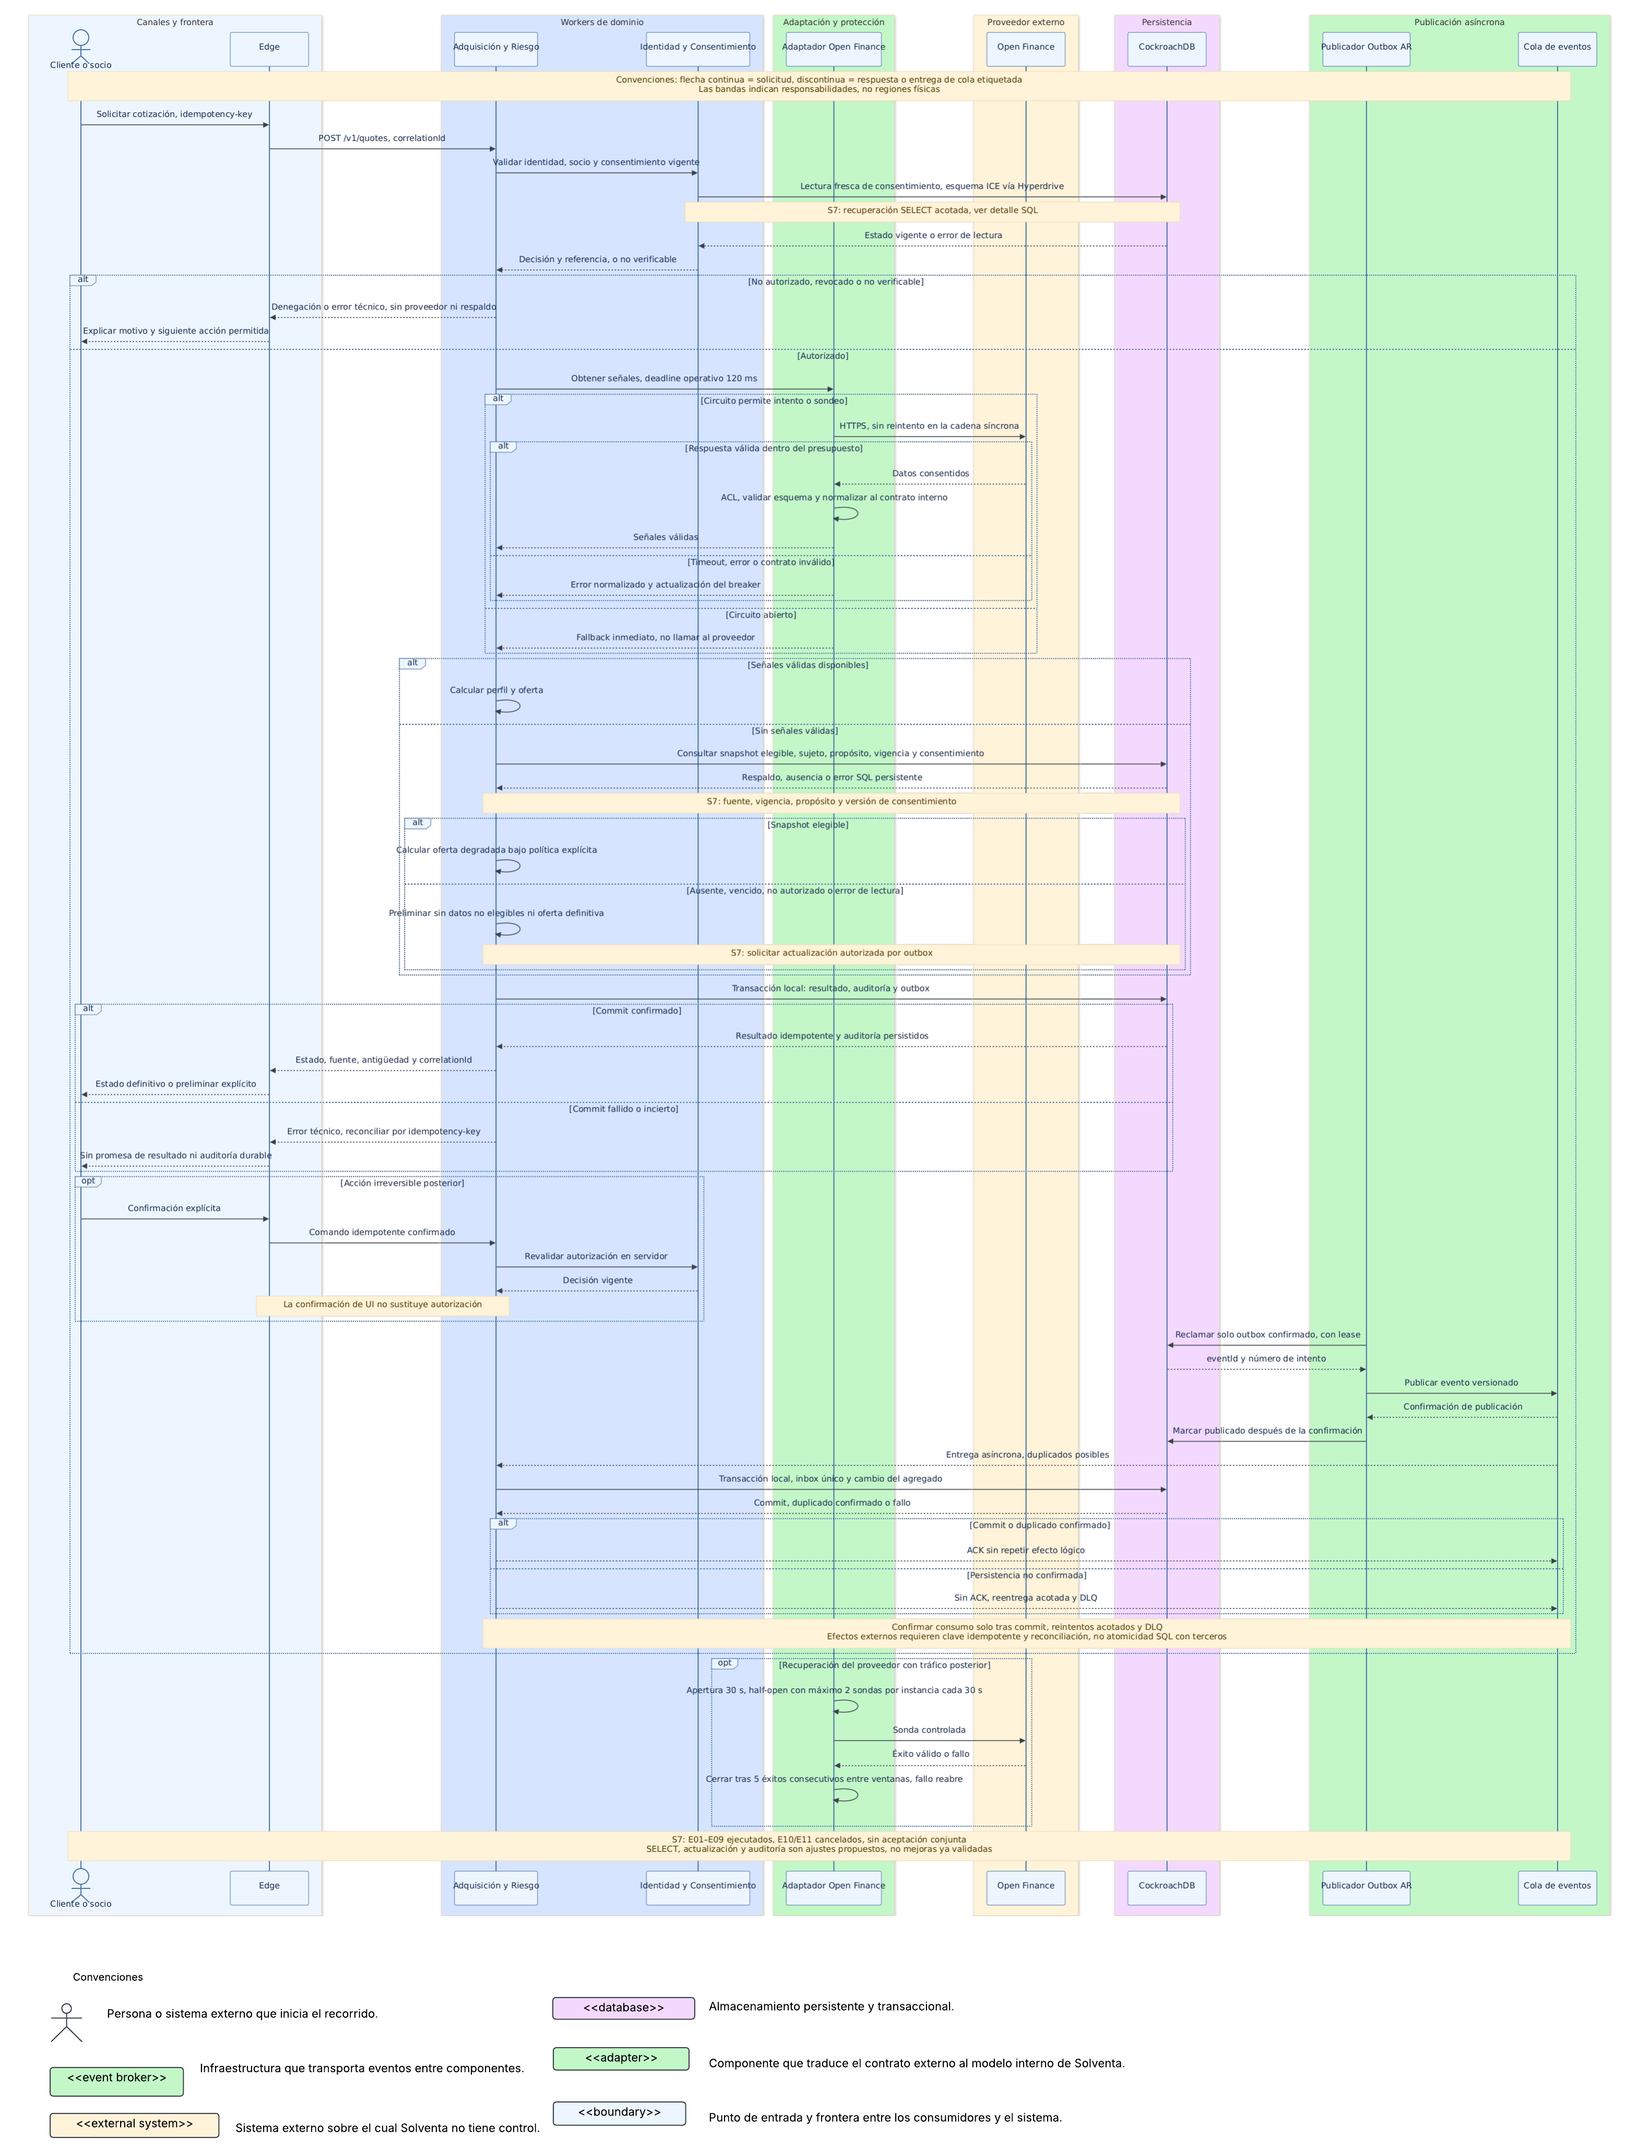
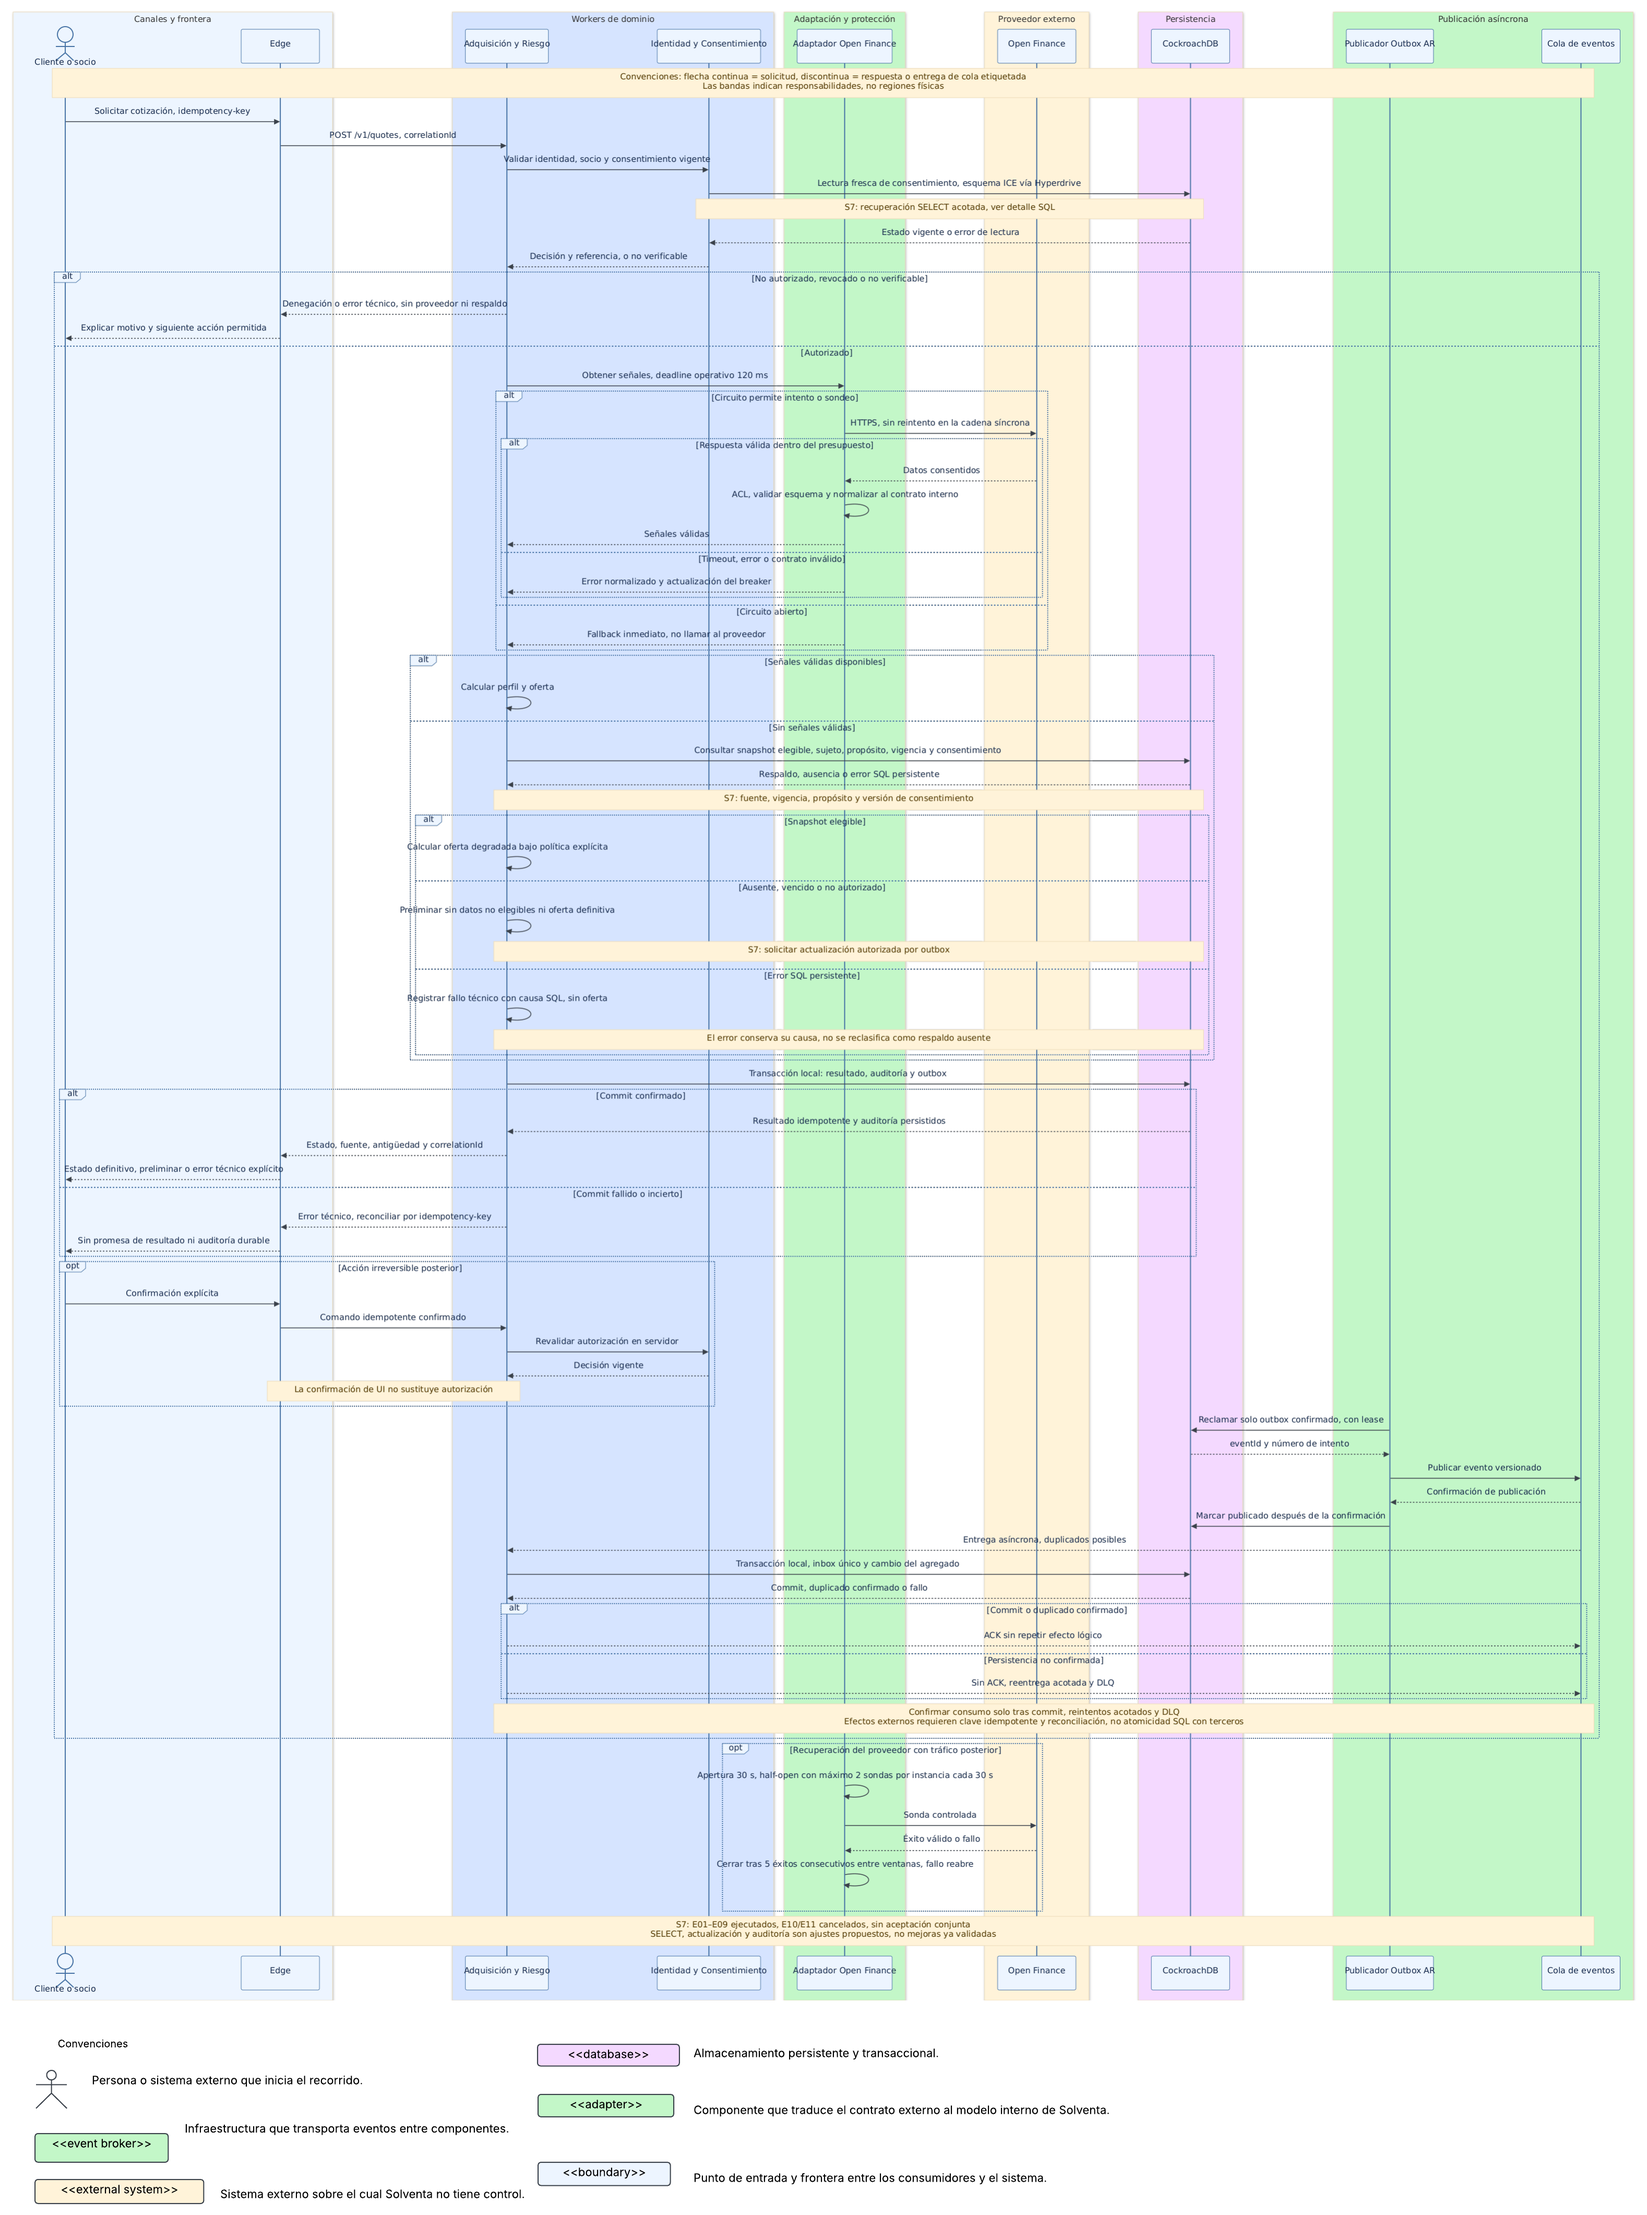
Align final experiment report and architecture review

Changed region(s): [[0.0312, 0.0, 0.9994, 0.9942], [0.0, 0.932, 0.2186, 1.0], [0.0312, 0.1243, 0.0625, 0.1864]]

diff --git a/docs/resultados.md b/docs/resultados.md
@@ -371,7 +371,7 @@ Se mantiene el plazo de 120 ms del adaptador; E01 y E02 cumplen los percentiles 
 
 ### 4.3. Recuperación de lecturas SQL
 
-Se propone incorporar la recuperación acotada ya desarrollada como opción diagnóstica: solo una lectura SELECT idempotente ante error transitorio permitido; primer intento de hasta 200 ms; cierre de la conexión y como máximo un reintento con espera de 10–25 ms, si queda presupuesto dentro del límite total de 700 ms. El presupuesto local por instancia y dependencia admite una ráfaga de dos reintentos y repone cinco por segundo. No se reintentan escrituras ni errores de autorización. Esta política no añade reintentos síncronos al proveedor Open Finance. Si el consentimiento no puede verificarse, se bloquea el uso del dato y se conserva la clasificación técnica. Si falla la lectura del respaldo después de autorizar, puede mostrarse una salida preliminar sin datos ni oferta, identificando el error: no se reclasifica el HTTP 503 histórico como respuesta completa. Las pruebas diagnósticas registraron respuestas de hasta 836 ms. El cierre de conexiones y la respuesta deben presupuestarse; no se ha demostrado mejora de p99 ni cumplimiento E2E con esta propuesta.
+Se propone incorporar la recuperación acotada ya desarrollada como opción diagnóstica: solo una lectura SELECT idempotente ante error transitorio permitido; primer intento de hasta 200 ms; cierre de la conexión y como máximo un reintento con espera de 10–25 ms, si queda presupuesto dentro del límite total de 700 ms. El presupuesto local por instancia y dependencia admite una ráfaga de dos reintentos y repone cinco por segundo. No se reintentan escrituras ni errores de autorización. Esta política no añade reintentos síncronos al proveedor Open Finance. Si el consentimiento no puede verificarse, se bloquea el uso del dato y se conserva la clasificación técnica. Si falla la lectura del respaldo después de autorizar, puede mostrarse una salida preliminar sin datos ni oferta, identificando el error: no se reclasifica el HTTP 503 histórico como respuesta completa. Adoptar el SELECT de hasta 200 ms queda condicionado a resolver en refinamiento la interpretación del criterio de 120 ms, conforme al plan de Proyecto Final 2; no puede contradecir el criterio acordado. Las pruebas diagnósticas registraron respuestas de hasta 836 ms. El cierre de conexiones y la respuesta deben presupuestarse; no se ha demostrado mejora de p99 ni cumplimiento E2E con esta propuesta.
 
 ### 4.4. Recuperación y alcance del circuito
 
@@ -381,7 +381,7 @@ Se conserva el circuito por instancia y operación: ventana de 20 muestras en 30
 
 Cada componente conservará su responsabilidad: Identity verifica consentimiento; Acquisition & Risk obtiene señales, responde y mantiene su respaldo y auditoría; Queue entrega mensajes al menos una vez y el consumidor realiza la deduplicación; CockroachDB guarda los datos de cada propietario. Las propuestas se registran como decisiones de diseño para implementación posterior. La referencia de consentimiento en un mensaje no concede autorización: el consumidor comprueba propósito, alcance y versión antes de consultar y antes de aplicar señales, y cada uso posterior vuelve a validar el permiso. No se incorpora coordinación global ni una transacción distribuida entre propietarios. La salida preliminar conserva su condición en la interfaz; una oferta definitiva requiere datos elegibles y cálculo completo.
 
-El cálculo del analizador está corregido; las políticas SQL existen como opciones diagnósticas; la actualización asíncrona de señales y la integración de auditoría del producto son propuestas de implementación.  Los diagramas existentes de Lucidchart no han sido modificados por esta revisión.
+El cálculo del analizador está corregido; las políticas SQL existen como opciones diagnósticas; la actualización asíncrona de señales y la integración de auditoría del producto son propuestas de implementación.  Los modelos refinados y sus diagramas de Lucidchart se presentan en el documento de arquitectura de Semana 7; representan decisiones de diseño y no una validación experimental adicional.
 
 ## 5. Conclusiones
 

diff --git a/README.md b/README.md
@@ -28,8 +28,8 @@ La hipótesis conjunta no pasa. E01 incumple cero respaldo; E05 presenta p99 de 
 |---|---|
 | [Resultados y análisis](docs/resultados.md) | Objetivos, dictámenes Pasa/No pasa, 14 figuras y glosario |
 | [Reproducción](docs/reproduccion.md) | Demostración local, descarga y recálculo de las 30 corridas |
-| [Arquitectura final S7](docs/arquitectura-s7.md) | Documento completo: 11 secciones, nueve tablas y nueve figuras |
-| [Catálogo de diagramas](docs/arquitectura.md) | Fuentes Mermaid y vistas complementarias |
+| [Arquitectura final S7](docs/arquitectura-s7.md) | Documento refinado, modelos y decisiones sustentadas en los experimentos |
+| [Catálogo de diagramas](docs/arquitectura.md) | Vistas finales de Lucidchart y procedencia de las figuras |
 | [Registro de evidencias](docs/registro-evidencias.md) | Enlaces a los 30 análisis originales y sus 30 derivados |
 | [Funcionamiento del banco](docs/banco.md) | Componentes, configuración y comandos |
 | [Protocolo original](docs/protocolo-s5.md) | Hipótesis y umbrales previos a la campaña |
